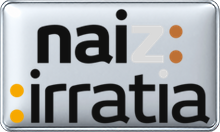
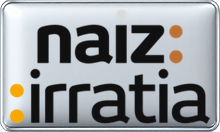
Apply manually selected V10 WHITE candidate for case 6216

Changed region(s): [[0.5727, 0.1818, 0.7636, 0.4848], [0.5182, 0.0606, 0.6, 0.1818], [0.7091, 0.5152, 0.7909, 0.6061]]

diff --git a/docs/PROJECT-CHECKPOINT.md b/docs/PROJECT-CHECKPOINT.md
@@ -17,7 +17,7 @@ This dated status supersedes older immediate-resume instructions in the historic
[1 lines of base64/hex data omitted]
 - Expanded v4 WHITE/BLACK scratch regression (2026-09-25): #14716, #3163, #3133, #3172, #3174, #12062 remained REVIEW and the PASS control remained PASS. Six of seven composites matched current outputs; #12062 differed in 93 displayed pixels (115 source achromatic pixels recolored). Alpha and protected chromatic pixels remained unchanged. No AUTO-FIXED case was demonstrated. Fixture-limited evidence only, not production approval. Report: `reports/warder-master-production/phase4-v10-experiment-20260925/ADJACENCY-GUARD-V4-BW-REGRESSION.md`.
 - Expanded v7 P1 WHITE scratch regression (2026-09-25): five additional cases (#628, #7352, #220, #858, #13193) remained REVIEW; alpha and protected chromatic pixels were unchanged, and the PASS control stayed unchanged. Existing fixture outputs/statuses remained stable. This is fixture-limited safety evidence only, not production approval. Report and audit: `reports/warder-master-production/phase4-v10-experiment-20260925/ADJACENCY-GUARD-V7-P1-REGRESSION.md` and `.../ADJACENCY-GUARD-V7-P1-REGRESSION-AUDIT.csv`.
-- P1 mixed-logo screen (2026-09-25): the contact-fraction test covered 24 additional fixtures; all remained REVIEW, preservation checks passed, and the PASS control stayed unchanged. After seeing the focused images, Štefan clarified that “stredne” approved both #10085 and #6019. Their exact V10 candidates are manually approved and applied on this isolated test branch; their automatic status remains REVIEW. #6216 and #14408 remain unapplied. Case-level approval record, audit, and both comparison images: `reports/warder-master-production/phase4-v10-experiment-20260925/CASE-10085-6019-MANUAL-APPROVAL.md`, `.csv`, `CASE-10085-MANUAL-APPROVAL.jpg`, and `CASE-6019-MANUAL-APPROVAL.jpg`. This does not approve the algorithm or a production rebuild. Original screen report and audit: `reports/warder-master-production/phase4-v10-experiment-20260925/ADJACENCY-GUARD-P1-24-CASE-SCREEN.md` and `.../ADJACENCY-GUARD-P1-24-CASE-SCREEN-AUDIT.csv`.
[1 lines of base64/hex data omitted]
 - Next gate: continue isolated V10 regression work on the test branch; ambiguous or unsafe samples remain REVIEW. The failed component-mask prototype is not approved, and full-catalog rebuild still requires successful isolated regression evidence and an explicitly approved production path.
 - Do not repeat the visual review or regeneration of Batches 1–13. Continue the Phase 4 V10 workflow on the isolated test branch using the approved records and existing V10 test specification.
 

diff --git a/reports/warder-master-production/phase4-v10-experiment-20260925/CASE-6216-14408-MANUAL-VISUAL-DECISIONS.md b/reports/warder-master-production/phase4-v10-experiment-20260925/CASE-6216-14408-MANUAL-VISUAL-DECISIONS.md
@@ -1,0 +1,15 @@
+# V10 manual visual decisions — cases #6216 and #14408
+
+Date: 2026-09-25  
+Branch: `phase4-v10-component-mask-test`
+
+Štefan selected the **right-hand image** for #6216 and the **middle-column CURRENT** image for #14408.
+
+| Case | User selection | Transparent source | Previous/current WHITE SHA256 | Selected WHITE SHA256 | V10 status | Result |
+|---|---|---|---|---|---|---|
[2 lines of base64/hex data omitted]
+
[1 lines of base64/hex data omitted]
+
+The focused comparison is preserved as `CASE-6216-14408-MANUAL-VISUAL-DECISIONS.jpg`. The automatic classifier remains REVIEW for both cases. These are case-specific visual decisions; they do not approve V10 as an algorithm or a full-catalog rebuild.

diff --git a/reports/warder-master-production/phase4-v10-experiment-20260925/ADJACENCY-GUARD-P1-24-CASE-SCREEN.md b/reports/warder-master-production/phase4-v10-experiment-20260925/ADJACENCY-GUARD-P1-24-CASE-SCREEN.md
@@ -13,7 +13,7 @@ All 24 cases remained REVIEW. The unchanged PASS control stayed PASS with zero c
 - **#6216** — REVIEW, five two-tone components, 1,498 displayed pixels differ from current. The V10 candidate changes the dot over the “i” to white, making it disappear against the white master.
 - **#14408** — REVIEW, four components touching protected chromatic artwork, 6,507 displayed pixels differ from current. The V10 test candidate leaves much of the large wordmark pale on white while other letters turn black.
 
-The user's later manual approvals for #10085 and #6019 supersede the initial visual assessment; both exact candidates are applied with case-level audit. #6216 and #14408 remain unapplied. The automatic classifier still reports REVIEW for #10085 and #6019; these are manual approvals of two exact outputs, not approval of the algorithm.
+The user's later manual approvals for #10085 and #6019 supersede the initial visual assessment; both exact candidates are applied with case-level audit. #6216 remains REVIEW automatically; Štefan selected the exact right-hand V10 candidate, which is manually approved and applied on the test branch. #14408 remains REVIEW automatically; Štefan selected the middle-column CURRENT output, so it is retained unchanged. This is case-level manual visual selection, not approval of the algorithm. The automatic classifier still reports REVIEW for #10085 and #6019; these are manual approvals of two exact outputs, not approval of the algorithm.
 
 ## Audit and previews
 
